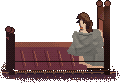
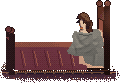
Remove mansion bed side rail crossing the coverlet near the floor
Copilot-Session: 8aff2f3c-fe75-41b2-ae80-a6b3ecf14add

Changed region(s): [[0.125, 0.7229, 0.875, 0.747]]

diff --git a/tests/art/test_scene_improvements.py b/tests/art/test_scene_improvements.py
@@ -273,6 +273,18 @@ class SceneImprovementsTests(unittest.TestCase):
         current = np.asarray(mansion.paint_bedroom("eleanor"))
         np.testing.assert_array_equal(current[foreground], original[foreground])
 
+    def test_mansion_bed_has_no_side_rail_across_the_bedding(self):
+        R = mansion.Room3D(mansion.BFL, 240, 100)
+        mask = Image.new("RGBA", (480, 270))
+        mansion._bed_front(mask, R)
+        alpha = np.asarray(mask.getchannel("A")) == 255
+        x0, x1, z1 = mansion.BED["x0"], mansion.BED["x1"], mansion.BED["z1"]
+        left, right = R.P(x0 + 1, 0, z1)[0], R.P(x1 - 1, 0, z1)[0]
+        top_of_base = int(R.P(x0, 5, z1 + 3)[1])
+        bottom_of_cover = int(R.P(x0, 24, z1 + 1)[1])
+        between_posts = alpha[bottom_of_cover:top_of_base, int(left) + 1:int(right)]
+        self.assertFalse(between_posts.any(), "no frame rail may cross the hanging bedding")
+
     def test_bed_sprites_reconstruct_both_room_states(self):
         scene = (ROOT / "scenes" / "rooms" / "mansion_bedroom.tscn").read_text()
         base = mansion.paint_bedroom()

diff --git a/tools/art/mansion.py b/tools/art/mansion.py
@@ -1388,7 +1388,6 @@ def _bed_front(img, R):
     for x0_, hgt in ((x0 - 4, 36), (x1, 62)):
         p = R.P(x0_ + 2, hgt, z0 + 1)
         d.ellipse([p[0] - 3, p[1] - 6, p[0] + 3, p[1]], fill=WAL_L, outline=WAL_D)
-    R.line(img, (x0 - 4, 12, z1 + 4), (x1 + 4, 12, z1 + 4), WAL_D)  # the side rail under the coverlet's hem
     R.line(img, (x0 - 2, 4, z1 + 3), (x1 + 2, 4, z1 + 3), WAL)
 
 def paint_bedroom(bed=None):
